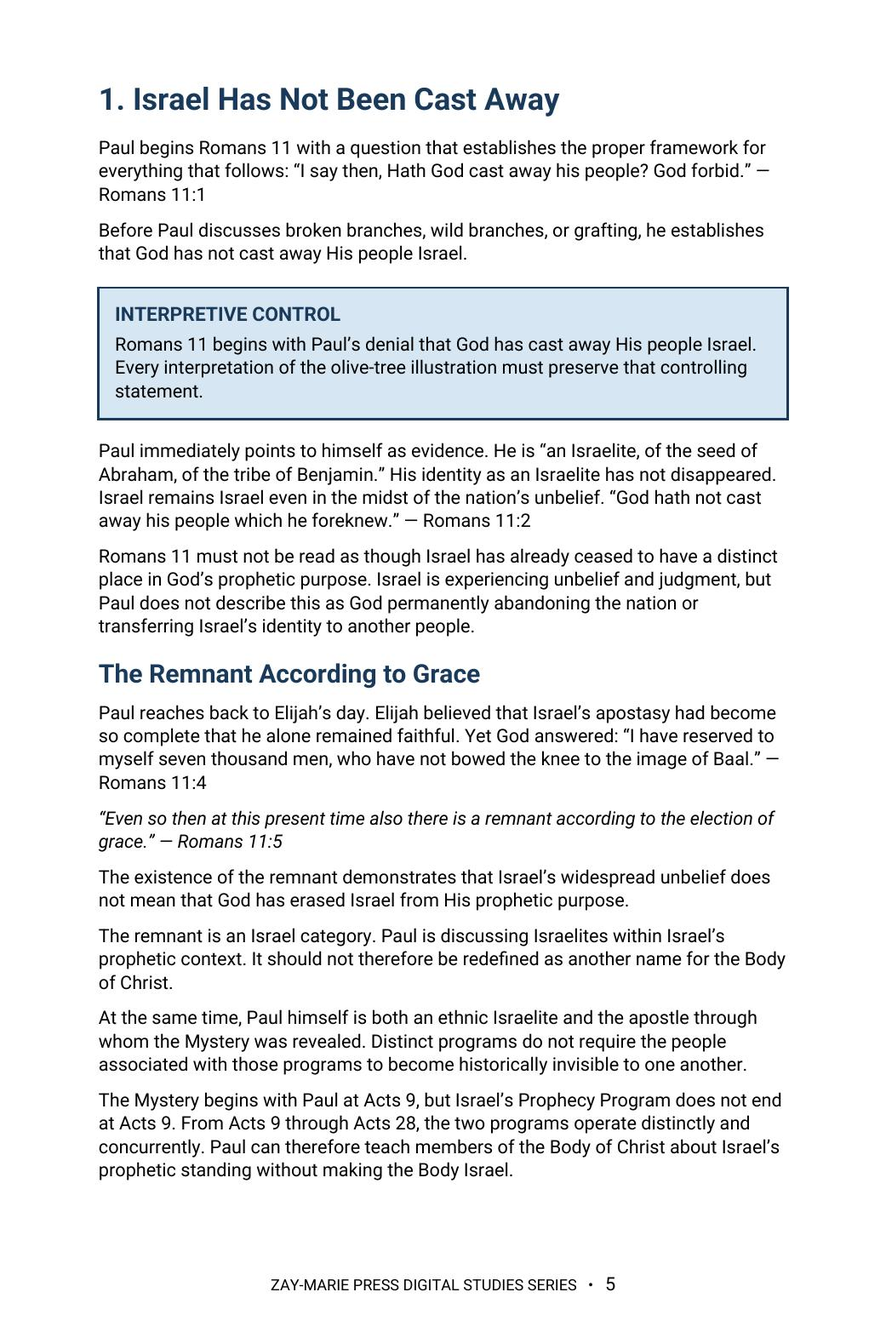
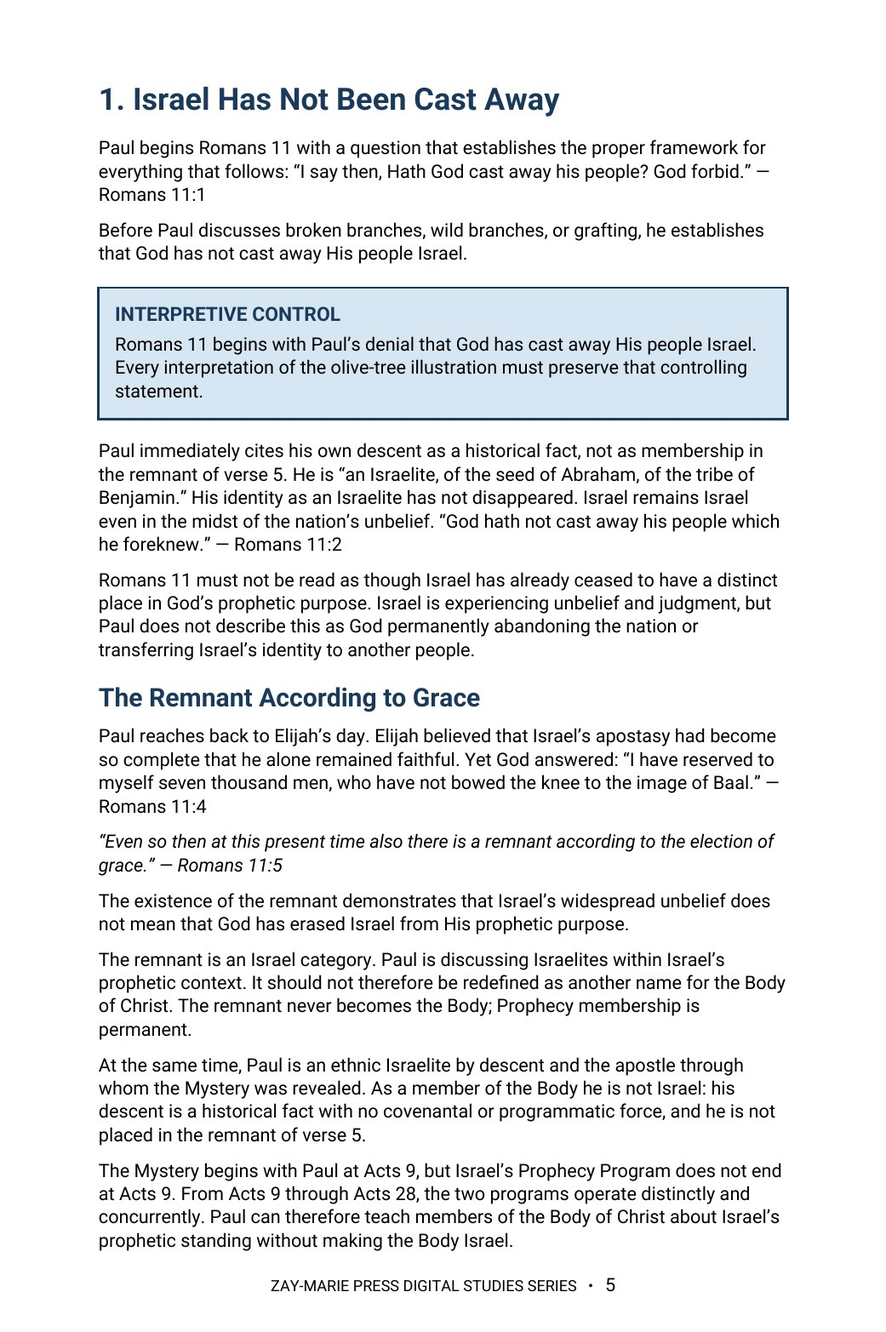
Retrofit Study 13 to the doctrinal upgrade: website text, page count, preview; retrofit plan v1.7, audit v1.100
Claude-Session: https://claude.ai/code/session_013kzJPyMkodVfrxEZGjk3me

diff --git a/study-13-the-olive-tree-and-the-body-of-christ.html b/study-13-the-olive-tree-and-the-body-of-christ.html
@@ -10,12 +10,12 @@
 .study-distinction{max-width:920px;margin-top:28px;margin-bottom:28px;padding:26px 28px;background:#fff;border:1px solid #d8d1bf;border-left:4px solid #b8871c}.study-distinction h3{margin:0 0 10px;color:#143823}.study-distinction p{margin:0 0 14px;line-height:1.62}.study-distinction p:last-child{margin-bottom:0}.study-distinction a{font-family:Arial,sans-serif;font-weight:700;color:#176b3a;text-decoration:none}</style></head>
 <body class="study-detail-page"><header class="site-header"><div class="wrap nav"><a aria-label="Zay-Marie Press home" class="logo" href="index.html"><img alt="Zay-Marie Press" height="238" src="assets/zay-marie-press-logo-hq.png" width="420"/></a><button aria-controls="primary-nav" aria-expanded="false" class="menu-toggle" type="button">MENU</button><nav aria-label="Primary navigation" class="primary-nav" id="primary-nav"><a href="index.html">HOME</a><a href="books.html">BOOKS</a><a href="series.html">SERIES</a><a class="active" aria-current="page" href="digital-studies.html">DIGITAL STUDIES</a><a href="biblical-hermeneutics-course.html">COURSE</a><a href="about.html">ABOUT</a><a href="resources.html">RESOURCES</a><a href="contact.html">CONTACT</a></nav></div></header><main>
 <section class="detail-hero"><div class="wrap detail-hero-grid"><div class="detail-cover"><img src="assets/study-13-cover-v2.jpg" alt="The Olive Tree and the Body of Christ — Study 13 cover"/></div><div><div class="eyebrow">STUDY 13 · DIGITAL STUDY</div><h1>The Olive Tree and the Body of Christ</h1><p class="detail-subtitle">Participation, Identity, and the Acts Overlap</p><p class="detail-kicker">A Biblical Examination of Romans 11, Israel’s Future, Gentile Participation, the One Body, and the Acts Overlap</p><p class="detail-copy">Romans 11 explains Israel’s present condition, Gentile participation in Abrahamic-rooted prophetic blessing, and God’s continuing purpose for the nation. This study identifies the root, natural branches, wild branch, breaking off, and grafting without making participation a change of identity.</p><p class="detail-copy">It then sets Romans 11 alongside Ephesians 2: the olive tree explains prophetic participation in relation to Israel; the one Body explains the distinct Mystery identity created in Christ. Both truths stand together during the Acts Overlap without merging Prophecy and Mystery.</p><div class="detail-buyline"><span class="detail-price">$5.99</span><span class="detail-format">Digital PDF</span><span class="detail-button pending" aria-disabled="true">Get the Study</span></div></div></div></section>
-<section class="detail-section"><div class="wrap"><div class="eyebrow">ABOUT THIS STUDY</div><h2>What Does Romans 11 Teach About the Olive Tree?</h2><p class="lead">Paul begins Romans 11 by denying that God has cast away His people Israel. Israel remains the natural-branch nation even amid unbelief, stumbling, partial blindness, and broken branches. The patriarchal root remains the source of prophetic blessing and privilege; Gentiles are a wild branch grafted in among the branches.</p><p class="lead">Grafting changes participation and standing, not national or programmatic identity. The Body of Christ is not defined by olive-tree membership but by the Mystery revealed through Paul: one new man and one Body in Christ. Romans 11 belongs within the Acts Overlap, where Prophecy and Mystery operate distinctly and concurrently through Acts 28.</p><p class="lead">This is not a study of the Abrahamic covenant’s own terms, which Study 17 establishes in Genesis itself, nor of Paul’s several uses of Abraham’s seed, which Study 40 traces across Romans and Galatians, nor of the believing remnant within Israel, which Study 9 follows in its own right. Its task is narrower: to read Romans 11’s root, branches, and grafting on their own terms, and to ask what grafting actually changes — participation and standing, not national or programmatic identity.</p><div class="study-distinction"><h3>How These Studies Relate</h3><p>Study 13 interprets Paul’s olive-tree image in Romans 11 and the participation of Gentiles in the patriarchal root’s blessing.</p><p><a href="study-17-the-abrahamic-covenant.html">Study 17 — The Abrahamic Covenant</a> Return to the covenant’s actual terms in Genesis; those promises explain the root without turning all beneficiaries into Israel or transferring the land promise.</p><p><a href="study-40-who-is-abrahams-seed.html">Study 40 — Who Is Abraham’s Seed?</a> Follow Paul’s several uses of Abraham’s seed in Romans and Galatians; this tests exactly what faith, blessing, and heirship grant before drawing identity conclusions.</p><p><a href="study-09-the-remnant.html">Study 9 — The Remnant</a> Identify the believing Israelite remnant within Romans 11; it clarifies whom Paul means among the natural branches.</p><p class="connection-guide-link"><a href="study-connections.html#study-13">Explore the full connection guide for Study 13 →</a></p></div></div></section>
+<section class="detail-section"><div class="wrap"><div class="eyebrow">ABOUT THIS STUDY</div><h2>What Does Romans 11 Teach About the Olive Tree?</h2><p class="lead">Paul begins Romans 11 by denying that God has cast away His people Israel. Israel remains the natural-branch nation even amid unbelief, stumbling, partial blindness, and broken branches. The patriarchal root remains the source of prophetic blessing and privilege; Gentiles are a wild branch grafted in among the branches.</p><p class="lead">Grafting changes participation and standing, not national or programmatic identity. The Body of Christ is not defined by olive-tree membership but by the Mystery revealed through Paul: one new man and one Body in Christ. Romans 11 belongs within the Acts Overlap, where Prophecy and Mystery operate distinctly and concurrently through Acts 28, when Prophecy’s national operation is suspended and membership is unchanged.</p><p class="lead">This is not a study of the Abrahamic covenant’s own terms, which Study 17 establishes in Genesis itself, nor of Paul’s several uses of Abraham’s seed, which Study 40 traces across Romans and Galatians, nor of the believing remnant within Israel, which Study 9 follows in its own right. Its task is narrower: to read Romans 11’s root, branches, and grafting on their own terms, and to ask what grafting actually changes — participation and standing, not national or programmatic identity.</p><div class="study-distinction"><h3>How These Studies Relate</h3><p>Study 13 interprets Paul’s olive-tree image in Romans 11 and the participation of Gentiles in the patriarchal root’s blessing.</p><p><a href="study-17-the-abrahamic-covenant.html">Study 17 — The Abrahamic Covenant</a> Return to the covenant’s actual terms in Genesis; those promises explain the root without turning all beneficiaries into Israel or transferring the land promise.</p><p><a href="study-40-who-is-abrahams-seed.html">Study 40 — Who Is Abraham’s Seed?</a> Follow Paul’s several uses of Abraham’s seed in Romans and Galatians; this tests exactly what faith, blessing, and heirship grant before drawing identity conclusions.</p><p><a href="study-09-the-remnant.html">Study 9 — The Remnant</a> Identify the believing Israelite remnant within Romans 11; it clarifies whom Paul means among the natural branches.</p><p class="connection-guide-link"><a href="study-connections.html#study-13">Explore the full connection guide for Study 13 →</a></p></div></div></section>
 <section class="detail-section soft"><div class="wrap"><div class="eyebrow">WHAT YOU’LL STUDY</div><h2>Let Paul’s Distinctions Govern the Illustration</h2><div class="study-points"><div class="study-point"><h3>Israel Has Not Been Cast Away</h3><p>Begin where Paul begins: God has not abandoned His people Israel.</p></div><div class="study-point"><h3>The Patriarchal Root</h3><p>Identify the Abrahamic source of prophetic blessing and privilege that supports the branches.</p></div><div class="study-point"><h3>Natural and Wild Branches</h3><p>Distinguish Israel’s natural relationship to the root from Gentile participation among the branches.</p></div><div class="study-point"><h3>Grafting and Standing</h3><p>See why breaking off and grafting in change standing without changing the branch’s identity.</p></div><div class="study-point"><h3>Israel’s Future Remains</h3><p>Read partial blindness, future reception, and the gifts and calling of God in their immediate context.</p></div><div class="study-point"><h3>The Olive Tree and the One Body</h3><p>Keep Romans 11’s prophetic participation distinct from the Mystery identity Paul explains in Ephesians 2.</p></div></div></div></section>
-<section class="detail-section cream"><div class="wrap"><div class="eyebrow">KEY SCRIPTURES</div><h2>Examine the Passages for Yourself</h2><div class="scripture-grid"><div class="scripture-card"><h3>Romans 11:1–6</h3><p>Establishes that God has not cast away His people Israel and identifies the remnant.</p></div><div class="scripture-card"><h3>Romans 11:11–15</h3><p>Traces Israel’s stumbling, Gentile salvation, and future receiving.</p></div><div class="scripture-card"><h3>Romans 11:16–18</h3><p>Introduces the patriarchal root, natural branches, wild branch, and warning against boasting.</p></div><div class="scripture-card"><h3>Romans 11:19–24</h3><p>Explains breaking off, standing by faith, and the possibility of grafting in again.</p></div><div class="scripture-card"><h3>Romans 11:25–29</h3><p>Affirms Israel’s partial blindness, future, and the gifts and calling of God.</p></div><div class="scripture-card"><h3>Ephesians 2:11–16</h3><p>Reveals the one new man and one Body in Christ according to the Mystery.</p></div><div class="scripture-card"><h3>Jeremiah 11:16–17</h3><p>Supplies Old Testament olive-tree imagery for careful comparison.</p></div><div class="scripture-card"><h3>Acts 9; 28:25–28</h3><p>Marks Mystery’s beginning with Paul and the later suspension of Prophecy.</p></div></div></div></section>
+<section class="detail-section cream"><div class="wrap"><div class="eyebrow">KEY SCRIPTURES</div><h2>Examine the Passages for Yourself</h2><div class="scripture-grid"><div class="scripture-card"><h3>Romans 11:1–6</h3><p>Establishes that God has not cast away His people Israel and identifies the remnant.</p></div><div class="scripture-card"><h3>Romans 11:11–15</h3><p>Traces Israel’s stumbling, Gentile salvation, and future receiving.</p></div><div class="scripture-card"><h3>Romans 11:16–18</h3><p>Introduces the patriarchal root, natural branches, wild branch, and warning against boasting.</p></div><div class="scripture-card"><h3>Romans 11:19–24</h3><p>Explains breaking off, standing by faith, and the possibility of grafting in again.</p></div><div class="scripture-card"><h3>Romans 11:25–29</h3><p>Affirms Israel’s partial blindness, future, and the gifts and calling of God.</p></div><div class="scripture-card"><h3>Ephesians 2:11–16</h3><p>Reveals the one new man and one Body in Christ according to the Mystery.</p></div><div class="scripture-card"><h3>Jeremiah 11:16–17</h3><p>Supplies Old Testament olive-tree imagery for careful comparison.</p></div><div class="scripture-card"><h3>Acts 9; 28:25–28</h3><p>Marks Mystery’s beginning with Paul and the later national suspension of Prophecy’s operation.</p></div></div></div></section>
 <section class="detail-section"><div class="wrap"><div class="eyebrow">FROM THE STUDY</div><h2>Grafting Changes Participation, Not Identity</h2><div class="excerpt"><blockquote>“The wild branch is genuinely grafted in, yet it does not become a natural branch.”</blockquote><p>Romans 11 preserves Israel’s prophetic standing while explaining Gentile participation in Abrahamic-rooted blessing. Ephesians 2 establishes the Body’s new Mystery identity in Christ; these truths answer different questions and must not be collapsed into one metaphor.</p></div></div></section>
 <section class="detail-section soft"><div class="wrap"><div class="eyebrow">A LOOK INSIDE</div><h2>Preview the Study Before You Purchase</h2><p class="preview-instruction">Click any page to enlarge it for reading.</p><div class="preview-grid"><div class="preview-card"><a class="preview-image-link" data-preview-lightbox href="assets/study-13-page-2.jpg"><img src="assets/study-13-page-2.jpg" alt="Study 13 interior preview — page 2, table of contents"/></a><div class="page-no">Page 2</div><h3>Table of Contents</h3><p>See the full structure of the study, from the introduction through the final synthesis.</p></div><div class="preview-card"><a class="preview-image-link" data-preview-lightbox href="assets/study-13-page-3.jpg"><img src="assets/study-13-page-3.jpg" alt="Study 13 interior preview — page 3, what you will learn"/></a><div class="page-no">Page 3</div><h3>What You Will Learn</h3><p>See the skills and questions this study will teach you to work through.</p></div><div class="preview-card"><a class="preview-image-link" data-preview-lightbox href="assets/study-13-page-5.jpg"><img src="assets/study-13-page-5.jpg" alt="Study 13 interior preview — page 5, Israel has not been cast away"/></a><div class="page-no">Page 5</div><h3>Israel Has Not Been Cast Away</h3><p>Begin where Paul begins in Romans 11, with a question and the control it sets for the whole chapter.</p></div></div></div></section>
-<section class="detail-section"><div class="wrap"><div class="eyebrow">WHAT’S INCLUDED</div><h2>A Focused Study Built for<br/>Understanding and Teaching</h2><div class="includes-grid"><div class="include-item"><h3>15-Page In-Depth Biblical Study</h3><p>A focused, Scripture-based reading of Romans 11’s olive-tree illustration and Israel’s continuing future.</p></div><div class="include-item"><h3>Nine Core Teaching Sections</h3><p>Move from Paul’s opening control through the branches, the Body, and the Acts Overlap.</p></div><div class="include-item"><h3>Romans 11 Phrase-by-Phrase Study</h3><p>Work through the root, branches, grafting, partial blindness, and Israel’s future reception.</p></div><div class="include-item"><h3>Israel and Gentile Participation</h3><p>Distinguish standing and blessing from transferred identity, covenant status, or national inheritance.</p></div><div class="include-item"><h3>Romans 11 and Ephesians 2 Comparison</h3><p>See why the olive tree and the one Body address different doctrinal questions.</p></div><div class="include-item"><h3>Ten Review Questions</h3><p>Test the study’s controls concerning Israel, Gentiles, the root, and Body identity.</p></div><div class="include-item"><h3>Teaching Outline</h3><p>A ready framework for presenting Paul’s argument with precision and restraint.</p></div><div class="include-item"><h3>Guided Study and Final Synthesis</h3><p>Trace the passages directly and explain why participation does not determine identity.</p></div></div></div></section>
+<section class="detail-section"><div class="wrap"><div class="eyebrow">WHAT’S INCLUDED</div><h2>A Focused Study Built for<br/>Understanding and Teaching</h2><div class="includes-grid"><div class="include-item"><h3>18-Page In-Depth Biblical Study</h3><p>A focused, Scripture-based reading of Romans 11’s olive-tree illustration and Israel’s continuing future.</p></div><div class="include-item"><h3>Nine Core Teaching Sections</h3><p>Move from Paul’s opening control through the branches, the Body, and the Acts Overlap.</p></div><div class="include-item"><h3>Romans 11 Phrase-by-Phrase Study</h3><p>Work through the root, branches, grafting, partial blindness, and Israel’s future reception.</p></div><div class="include-item"><h3>Israel and Gentile Participation</h3><p>Distinguish standing and blessing from transferred identity, covenant status, or national inheritance.</p></div><div class="include-item"><h3>Romans 11 and Ephesians 2 Comparison</h3><p>See why the olive tree and the one Body address different doctrinal questions.</p></div><div class="include-item"><h3>Ten Review Questions</h3><p>Test the study’s controls concerning Israel, Gentiles, the root, and Body identity.</p></div><div class="include-item"><h3>Teaching Outline</h3><p>A ready framework for presenting Paul’s argument with precision and restraint.</p></div><div class="include-item"><h3>Guided Study and Final Synthesis</h3><p>Trace the passages directly and explain why participation does not determine identity.</p></div></div></div></section>
 <section class="detail-section cream"><div class="wrap"><div class="final-buy"><div><div class="eyebrow">STUDY 13 · DIGITAL STUDY</div><h2>The Olive Tree and the Body of Christ</h2><p>15-page digital PDF · For personal use</p></div><div class="final-offer"><div class="detail-price">$5.99</div><span class="detail-button pending" aria-disabled="true">Get the Study</span></div></div><a class="back-link" href="digital-studies.html">← Back to All Digital Studies</a></div></section><section class="study-method-course-bridge"><div class="wrap"><div class="study-method-course-panel"><div><div class="eyebrow">BUILD THE INTERPRETIVE METHOD</div><h2>Want More Than a Focused Study?</h2><p>Digital Studies examine particular biblical subjects and difficult passages. The 40-lesson Biblical Hermeneutics course teaches a complete, repeatable method for establishing meaning in context, determining proper assignment, and making responsible application.</p></div><a class="btn btn-primary" href="biblical-hermeneutics-course.html">BIBLICAL HERMENEUTICS COURSE</a></div></div></section></main>
 <div class="preview-lightbox" id="preview-lightbox" role="dialog" aria-modal="true" aria-label="Enlarged study page preview"><button class="preview-lightbox-close" type="button" aria-label="Close enlarged preview">×</button><img src="" alt=""/><div class="preview-lightbox-hint">Scroll to read the full page · Press Esc or click outside the page to close</div></div>
 <footer class="site-footer"><div class="wrap footer-grid"><div class="footer-about"><h3>Zay-Marie Press</h3><p class="footer-tagline"><em>Where the Bible Means What It Says.</em></p><p>Zay-Marie Press is a Christian theological publisher dedicated to producing doctrinally precise, carefully structured biblical resources that equip pastors, teachers, and serious students with clarity, depth, and Scripture-anchored truth.</p><p><a href="https://zaymariepress.com">zaymariepress.com</a><br/><a href="mailto:info@zaymariepress.com">info@zaymariepress.com</a></p></div><div class="footer-column"><h3>Explore</h3><div class="footer-links-stacked"><a href="books.html">Books</a><br/><a href="series.html">Series</a><br/><a href="biblical-hermeneutics-course.html">Course</a><br/><a href="digital-studies.html">Digital Studies</a><br/><a href="resources.html">Resources</a><br/><a href="bible-book-summaries.html">Bible Book Summaries</a><br/><a href="doctrinal-packets.html">Doctrinal Packets</a><br/><a href="historical-drift.html">Historical Drift</a><br/><a href="about.html">About</a><br/><a href="contact.html">Contact</a></div></div><div class="footer-column"><h3>Reader Support</h3><div class="footer-links-stacked"><a href="reader-support.html#faq">FAQ</a><br/><a href="reader-support.html#shipping-returns">Shipping &amp; Returns</a><br/><a href="reader-support.html#digital-downloads">Digital Downloads</a><br/><a href="reader-support.html#contact-support">Contact Support</a></div></div><div class="footer-column"><h3>Acts Overlap</h3><p><strong>Acts Overlap Theology Series</strong></p><p><em>Two Distinct Streams. One Overlap.</em></p><p><a href="series.html">Series Overview</a></p></div></div><div class="wrap footer-bottom">© 2026 Zay-Marie Press. All rights reserved.</div></footer>

diff --git a/CLAUDE.md b/CLAUDE.md
@@ -14,7 +14,7 @@ These are kept in the repo at `controlling-documents/` and are the current versi
 - **`controlling-documents/Zay-Marie_Press_Digital_Studies_Master_Standard_v1.41.pdf`** — Master Standard v1.41 (an editable `.docx` copy sits beside the PDF). Governs study structure, cover, PDF assembly, website package and publication (includes §16 Individual Study Preview Selection Standard). §16 fixes the preview set at exactly three pages: Table of Contents, What You Will Learn, and one further page of real substance that does not give away the study's thesis. As of v1.19, §2 (Forward Cover System) adds a Cover Art Brief step: Claude drafts a detailed written cover art description (image concept, composition, palette, lighting, symbolic content) for the publisher to hand to the illustrator, before the illustrator produces artwork — see Approval Checkpoint 3 below. As of v1.20, §6 (Body-Content Standard) fixes exact interior spacing values: body paragraphs 6pt space-after / 0pt space-before / 1.08 line spacing; Heading 1 14pt space-before / 8pt space-after; Heading 2 10pt space-before / 5pt space-after. As of v1.21, §9 (Content-Depth and Page-Length Standard) fixes the substantive-interior page count at exactly 15 pages, replacing the prior 13–17 page range; matching references updated in the Page-Count Control note (§3) and Stages 2 and 4 of the Study Development and Approval Workflow (§14). As of v1.22, §18 (About This Study — Related-Study Distinction Standard, originally added as §17 and renumbered by v1.24) requires a second paragraph in every study's About This Study section, placed before the "How These Studies Relate" box: it names the specific neighbouring studies a reader might confuse this one with, states what ground each one covers that this study doesn't (or vice versa), and closes with the single narrower question this study alone answers — see the "About This Study" bullet below. Governs new studies going forward; existing studies get it when reopened or when the publisher directs a retrofit. As of v1.23, §13 (Tables Symbols and Contrast Standard) changes the table-header treatment from dark navy to Slate Blue (#3B6E91) with high-contrast light text retained; the border-color cross-reference in the same section is updated to match. Applies to all studies going forward. As of v1.24, new §17 (Preview-Page Interpretive-Outcome Standard) codifies the publisher's 2026-09-28 preview-page conclusion-spoiler directive (see the section below) as a Master Standard requirement: preview pages must state interpretive outcomes and name the textual markers the reader will trace, never the study's doctrinal conclusion. Adding it renumbered the former §17/§18/§19 to §18 (About This Study), §19 (Locked Status), and §20 (Version History). As of v1.25 (publisher directive, 2026-09-28), §5 (Table of Contents Standard) requires Arabic numerals only — Roman numerals are never used in a Table of Contents — and a single flat list on one left-aligned axis: What You Will Learn in This Study, Introduction, the teaching sections numbered exactly as in the body, then Conclusion through Final Synthesis; Study Goal and Study Outline are not TOC entries. As of v1.26 and v1.27 (publisher directive, 2026-09-30), §8 (renamed Color and Typography Control) carries the Interior Typeface Standard: every Digital Study interior and Doctrinal Packet, headings included, is set in **Roboto** in four true faces (Regular, Italic, Bold, Bold Italic; static files; lining numerals), with no other or fallback font embedded. v1.26 first specified EB Garamond; the publisher replaced it with Roboto in v1.27 after a Study 2 test build. It applies to all studies past, present and future, and to Doctrinal Packets; Stages 3 and 4 of §14 require it and a `pdffonts` check. Existing studies move to it when reopened or when the publisher directs. The static Roboto files and the build recipe are in `fonts/` (see `fonts/README.md`); the Framework carries the rule as PAM Rule 6 and a dated Section 4 (continued) entry. The v1.26/v1.27 files were rebuilt from the publisher's v1.13 DOCX (Sections 1–2) plus the v1.25 text. As of v1.28 (publisher directive, 2026-09-30): §4 requires exactly five callouts per study, all boxed (light-blue box, 1 pt dark navy border, bold uppercase navy title; extra source callouts become body paragraphs with a bold run-in lead, wording unchanged); §10 places the copyright notice only in the end imprint, with no front copyright page; §13 makes table body rows plain white under Slate Blue headers. As of v1.29 (publisher directive, 2026-09-30), §5 sets Table of Contents entries at the body-paragraph spacing (6 pt after, 1.08 line spacing) as first shown in Study 5, for studies built from Study 6 forward; Studies 1–5 and 9 keep their current TOC spacing unless reopened. As of v1.30 (publisher directive, 2026-09-30), §6 sets Heading 1 (numbered major sections) at 12 pt space-before and 8 pt space-after, replacing 14 pt space-before, as compared side by side on Study 6 page 5; it applies to studies built from Study 6 forward, and Studies 1–5 and 9 (built at 14 pt) are not reopened for it. Heading 2 (10/5) and body paragraphs (6 pt after, 1.08) are unchanged. As of v1.31 (publisher directive, 2026-10-01), new §19 (Catalog Category Standard) fixes the five catalog categories, the ordered decision procedure, the precedents, the 71 final assignments and the cover-label forms (working copy and version history in `controlling-documents/Digital_Studies_Category_Standard_v1.1.md`); Locked Status and Version History moved to §20 and §21. As of v1.32 (publisher directive, 2026-10-01), the upper-right cover label must be the exact name of the study's catalog category (§2 Cover Architecture and §19 Cover Labels); the shortened and legacy labels RIGHT DIVISION, PROPHECY, DOCTRINE, INTERPRETATION and BIBLICAL DOCTRINE are retired and all 71 covers were re-lettered. As of v1.33 (publisher directive, 2026-10-01), new §20 (Doctrinal Drafting Standard) carries PAM Rules 7–10 from the Framework so settled rulings are applied without being asked again: identity wording ("the Israel of God" = believing Jews within the Body, Israel by identity; never "believing Israel" alone; never a remnant beside or outside the Body in the present administration; required clarifier "This speaks of identity, not program membership; the remnant is ethnic-covenantal, and believing Jews are gathered into the Body during the Mystery administration"; Gentiles participate spiritually, never called Israel or "spiritual Israel"); the anchoring-sentence rule for books the PAM does not assign (Hebrews, Revelation, James, 1 Peter, 2 John; Philippians, 1 Thessalonians, 2 Timothy; Gal 2:1–10 report-only); standing wording for the Acts divisions, "the 'one taken, one left' passages", Eph 2:14 "abolished for the Body", judgment and related rulings; and the review procedure (conforming wording is applied and noted in one line, and only a new or uncovered passage is reported for a ruling). Locked Status and Version History moved to §21 and §22. As of v1.34 (publisher directive, 2026-10-01), Rule 7 adds the overlap-period rule: Peter's believing company and the circumcision apostleship during Acts 9–28 may be described as continuing under the Prophecy Program only with the clarification "During the overlap, the circumcision apostleship ministers to Israel under the Prophecy Program; believing Jews are gathered into the Body through Paul's ministry, and this speaks of identity, not program membership" (program membership and corporate identity are not the same question; no believing Israelite is placed outside the Body after Acts 9). As of v1.35 (publisher directive, 2026-10-01), §20 adds Rule 11: Paul's fillings, signs and miraculous events in Acts 9–28 are overlap phenomena, reported from the text and not assigned to a single program; they occur in settings shaped by Israel's Prophecy Program, but Paul's participation does not convert them into Prophecy Program content or make them Mystery content (standing wording: "These are recorded in settings shaped by Israel's Prophecy Program, which remained operative throughout Acts 9–28 even as the Mystery Program began. Acts 9–28 is the overlap; where Paul or his companions are the ones filled or working signs, the study reports the text and does not assign the event to a single program."; Acts table column title "The Spirit's Activity Recorded in Acts"; speaker identity is not program identity, and historical participation is not doctrinal obligation). Rule 10 refers to Rules 1–9 and 11. As of v1.36 (publisher directive, 2026-10-01), §20 adds Rule 12: where the PAM does not assign a book or passage, the study may use the text for universal doctrinal truth without assigning the book to a program, and must include the anchoring sentence "The Framework does not assign this book; this reading rests on the passage's own audience markers and setting." (it extends Rule 8 to unassigned books and passages Rule 8 does not name); Rule 10 refers to Rules 1–9, 11 and 12. As of v1.41 (publisher directive, 2026-10-02), Rules 7 and 15 carry two approved standing sentences for the retrofit: overlap — "During the overlap, the circumcision apostleship ministers to Israel under the Prophecy Program, and Paul's gospel forms the Body; the two operate concurrently and never merge, transfer or absorb one another." (replaces the withdrawn "gathered into the Body" sentence); Galatians 3 — "The seed is prophetic fulfillment in Christ; the Body receives blessing through Christ alone, not through participation in the Abrahamic covenant." (replaces all older Abrahamic-participation language). As of v1.40 (publisher directive, 2026-10-02), Rules 7 and 17 add the ruling that a Jewish member of the Body is not Israel: Body by identity, new creation by ontology, non-Israel by corporate identity, non-prophetic by program membership, non-covenantal by blessing structure, heavenly by destiny; ethnicity is a historical fact with no covenantal or programmatic force once a person is in the Body. The Rule 7 line "Israel remains Israel; the ethnic distinction is kept" is replaced by "Israel remains Israel, and the Body is not Israel"; the Framework identity sections (§V, PAM definition 2) carry it too. As of v1.39 (publisher directive, 2026-10-02), §20 adds Rule 17 (The remnant and the Body during Acts 9–28), also written into the Framework §XIX: the remnant never becomes the Body and stays outside the Body, the Mystery Program, the heavenly calling and Pauline identity; the Body is formed only by Paul's gospel from Acts 9, is gathered in on belief and is not Israel or the remnant; no shared identity, membership, covenant, gospel, hope, Spirit ministry or destiny; the standing summary sentence ("During Acts 9–28, the remnant remains Israel's prophetic believing company, and the Body remains the Mystery new creation. They coexist historically but never merge in identity, membership, calling, covenant, gospel, hope, or destiny. Concurrency is operational, not transformational.") and the one-sentence relationship rule are used wherever the relationship is stated; Rule 10 now reads "Rules 1–9 and 11–17". As of v1.38 (publisher directive, 2026-10-02), §20 (Doctrinal Drafting Standard) is amended and extended to carry the Framework's doctrinal upgrade: Rules 7–10 are rewritten and Rules 13–16 are added (see the Framework entry above for the points and the withdrawn wordings); Rule 10 now reads "Rules 1–9 and 11–16"; Rule 8 no longer lists Revelation as unassigned. As of v1.37 (publisher directive, 2026-10-02), a new "Study 52 Reference Standard" subsection in §6 makes Study 52 (Sonship and Adoption) the **golden standard** for the format, structure and blue/black type balance of every Digital Study from Study 53 forward: navy (#1B3350) only on major-section headings (Roboto Bold 17 pt), callout titles (10 pt bold caps) and the "Study Outline" sub-heading (12 pt bold); everything else black Roboto Regular 9 pt; numbered subsections (1.1, 1.2 …) are body-weight black lines at body spacing, not navy headings (as in Studies 50, 51 and 52); about 1–2% of interior characters navy; the section order, five boxed callouts, KJV tables (Verse / KJV text / What to observe), Scripture-Tracing, Review, Teaching Outline, Guided Further Study, Final Synthesis and single end imprint on a 16-page build. Studies 1–51 are NOT retrofitted and stay as published; build every new study to Study 52's final approved PDF/DOCX as the visual reference, and do not set subsections in navy. The §6 Heading 2 line was clarified (10/5 applies to unnumbered sub-headings such as "Study Outline"). See §22 Version History in the document itself.
 - **`controlling-documents/Digital_Studies_Relationship_Map_v1.39.md`** — records each study's distinct subject, its related studies, the eight priced six-study collections, the Paul's Missionary Journeys cross-reference map, and the five primary catalog categories (currently version 1.39, covers Studies 1–71; update it as new studies publish, bump the version number, rename the file to match, and log the change in its own version-history table — mirroring the Master Standard's `_vX.Y` filename convention). Check a proposed topic against it before recommending or writing a new study. (2026-09-28: the file was missing from this repo despite this note referencing it; replaced from the publisher's copy and bumped v1.15→v1.25 in the same pass. If this note ever again points to a version not present under `controlling-documents/`, ask the publisher for a copy rather than proceeding without the check.)
 - **`controlling-documents/Digital_Studies_Category_Standard_v1.1.md`** — FINAL and binding (publisher, 2026-10-01): the rules for the five primary catalog categories (Foundations, Israel & Prophecy, Body of Christ, Passages, Doctrinal Themes), the ordered decision procedure for new studies, the precedents, all 71 fixed assignments, and the cover-label form for each category. Read it before placing any card or cover label. Do not ask the publisher where a study belongs; apply the procedure and state the result. Only the publisher changes a ruling; then bump this Standard's version and filename, re-letter the cover, and update the Relationship Map.
-- **`controlling-documents/Doctrinal_Upgrade_Retrofit_Plan_v1.6.md`** — working tracker for retrofitting Studies 1–59 to the 2026-10-02 doctrinal upgrade (Framework/PAM v1.1, Master Standard v1.40, Rules 7–17): withdrawn-wording search keys, impact tiers, waves and the per-study method. Read it before continuing the retrofit in any session; update status, bump the version and rename the file as work proceeds.
+- **`controlling-documents/Doctrinal_Upgrade_Retrofit_Plan_v1.7.md`** — working tracker for retrofitting Studies 1–59 to the 2026-10-02 doctrinal upgrade (Framework/PAM v1.1, Master Standard v1.40, Rules 7–17): withdrawn-wording search keys, impact tiers, waves and the per-study method. Read it before continuing the retrofit in any session; update status, bump the version and rename the file as work proceeds.
 - **`controlling-documents/Doctrinal_Packet_Standard_v0.3.md`** — Doctrinal Packet Standard (DRAFT; §7 approved). Governs the separate Doctrinal Packets product strand (5-page interpretive PDFs per Bible book — a print-friendly cover as page 1 plus 4 content pages, $2.99, KJV, pilot: Genesis, live at `packet-genesis.html`, hub `doctrinal-packets.html`; site pages say "5 Pages", cover styles live in `packets.css`, Old Testament blue and New Testament soft pale green, hub listed in Bible order). **Preview rule (publisher directive, 2026-09-29, packets only):** previews show about one page's worth in two cropped views (top of page 1 through the anchor texts; the chart section) — never the exegesis, architecture, Mystery contrast, logic chain, outline, or closing. Master Standard §16/§17 still govern Digital Studies. Bump the version and rename the file as the Standard is finalized.
 - **`controlling-documents/Preview_Page_Spoiler_Retrofit_Audit_v1.4.md`** — working tracker for the Studies 1–60 preview-page conclusion-spoiler retrofit (see the section below). Read it before continuing that audit in any session; update its status fields and changelog, bump the version, and rename the file to match as the audit proceeds — same `_vX.Y` convention as the other controlling documents. As of v1.1, the website-side half was DONE: all 60 studies' "What You'll Study" text was judged against the rule (methodology documented in the file) and 22 points across 11 studies were rewritten and pushed; an unrelated Study 22 content bug (Study 21's content had leaked into it) was also found and fixed. As of v1.2, the publisher supplied Studies 1–60's interior production PDFs and the interior-PDF half was also surveyed (read-only): 10 studies (37, 41, 45, 47, 48, 49, 51, 52, 53, 54) were found to have at least one interior "What You Will Learn" violation, 50 studies were confirmed compliant, and the orphaned `assets/study-45-sanctification-under-grace.docx` (removed from the repo per the publisher in v1.0) was confirmed word-for-word identical to Study 45's actual production interior PDF content. As of v1.3, the publisher supplied editable DOCX sources for all 10 violating studies; all 15 violating points were rewritten and approved, delivered as corrected final PDFs, and — along the way — a second defect was found and fixed (Studies 47 and 48's source DOCX still had an unintegrated cover placeholder despite both being long-published live with real covers; fixed by inserting the existing approved cover art). The website's "What You Will Learn" preview image (`study-NN-page-3.jpg`) was regenerated from the corrected content for all 10 studies and pushed to `main` (commit `cea1859`), verified against a fresh clone. **The website side of this audit is now fully compliant for all 60 studies.** Outstanding: the publisher's purchasable interior PDF files themselves have corrected versions delivered, but distribution to existing purchasers was decided by the publisher on 2026-09-29: silent swap of the files behind the existing downloads, no reissue notice (recorded in the v1.4 changelog entry; the product files are not in this repo).
 

diff --git a/controlling-documents/Digital_Studies_PAM_Audit_v1.100.md b/controlling-documents/Digital_Studies_PAM_Audit_v1.100.md
@@ -329,3 +329,4 @@ Study 15 PDF not yet supplied. Typography: none of Studies 2, 3, 6, 8 is in EB G
 - v1.97 (2026-10-02): Study 36 retrofitted and published: the withdrawn 'gathered into the Body / identity, not program membership' clarifier removed from five places and replaced with the standing overlap sentence and Rule 17 wording; Review Question 10 no longer frames the remnant as an identity category and the Body as an administrative one; 'a Jewish member of the Body is not Israel' ruling added (block 93, Paul sentences, Category Control callout); Paul not placed in the Romans 11:5 remnant; Romans 11:13 Gentiles are prophetic participants, not Body Gentiles (Olive Tree Firewall); Galatians 3 standing sentence; Eph 2:14 'abolishes the enmity for the Body'; Acts 1–8 Prophecy only and Acts 28 judicial suspension with membership unchanged; Rule 11 signs sentence. Still 16 pages, no trimming. Website About line and From-the-Study quote updated; previews pp. 2, 3, 5 re-rendered. Retrofit plan v1.4.
 - v1.98 (2026-10-02): Study 37 retrofitted: Galatians 6:16 'the Israel of God' now 'believing Jews within Israel's prophetic identity—not members of the Body'; withdrawn 'believing remnant … gathered into the Body / identity, not program membership' wording replaced with the Rule 17 summary and the standing overlap sentence; Rule 11 signs sentence added; Acts 1–8 Prophecy only and Acts 28 judicial suspension with membership unchanged; Eph 2 'abolishes the enmity for the Body'. Still 16 pages. Website page, catalog card, connections entry and previews (pp. 2, 3, 5 text identical) needed no change. Retrofit plan v1.5.
 - v1.99 (2026-10-02): Study 11 retrofitted: Acts 28 now reads as national judicial suspension of Prophecy's operation, membership unchanged (interior, Key Distinctions table, website Acts 28 card and About line); permanent Prophecy membership and 'only newly saved individuals enter the Body after Acts 28' added; standing overlap sentence and Rule 17 summary added; Acts 1–8 Prophecy-only row; Cornelius/Acts 15 standing wording; Spirit-does-not-cross-programs clause; Rule 8/12 anchoring sentence for Philippians and 1 Thessalonians (adapted to two books). Still 15 pages; TOC entries for three late sections updated; previews (pp. 2–4) text unchanged. Retrofit plan v1.6.
+- v1.100 (2026-10-02): Study 13 retrofitted: Olive Tree Firewall stated outright (olive tree = prophetic blessing, not the Body; Romans 11 Gentiles are prophetic participants, not Body Gentiles; wild branches are not Body members); Paul cites his descent as historical fact, is not placed in the Rom 11:5 remnant, and as a Body member is not Israel; remnant never becomes the Body; Acts 28 = national judicial suspension of Prophecy's operation, membership unchanged; Acts 1–8 Prophecy only; standing overlap sentence and Rule 17 summary; New Covenant ratified at the Cross, not applied during Acts 9–28, Body not a party; Galatians 3 sentence. Still 18 pages; eight TOC entries updated. Website: Acts 28 card and About line reworded, What's Included page count corrected from 15 to 18 (site.js already 13:18), page 5 preview re-rendered. Retrofit plan v1.7.

diff --git a/controlling-documents/Doctrinal_Upgrade_Retrofit_Plan_v1.7.md b/controlling-documents/Doctrinal_Upgrade_Retrofit_Plan_v1.7.md
@@ -64,3 +64,4 @@ Working tracker for correcting published studies to the Framework/PAM v1.1, Mast
 - v1.4 (2026-10-02): Study 36 retrofit complete. Next: Study 37.
 - v1.5 (2026-10-02): Study 37 retrofit complete (interior only). Next: Study 11.
 - v1.6 (2026-10-02): Study 11 retrofit complete. Next: Study 13.
+- v1.7 (2026-10-02): Study 13 retrofit complete (interior 18 pp, Roboto; website Acts 28 card, About line, What's Included page count corrected 15→18, page 5 preview). Wave 1 now complete except Study 49 (Studies 35, 9, 36, 37, 11, 13 done). Next: Study 49 (DOCX from the earlier session) and Wave 2 as sources arrive.
